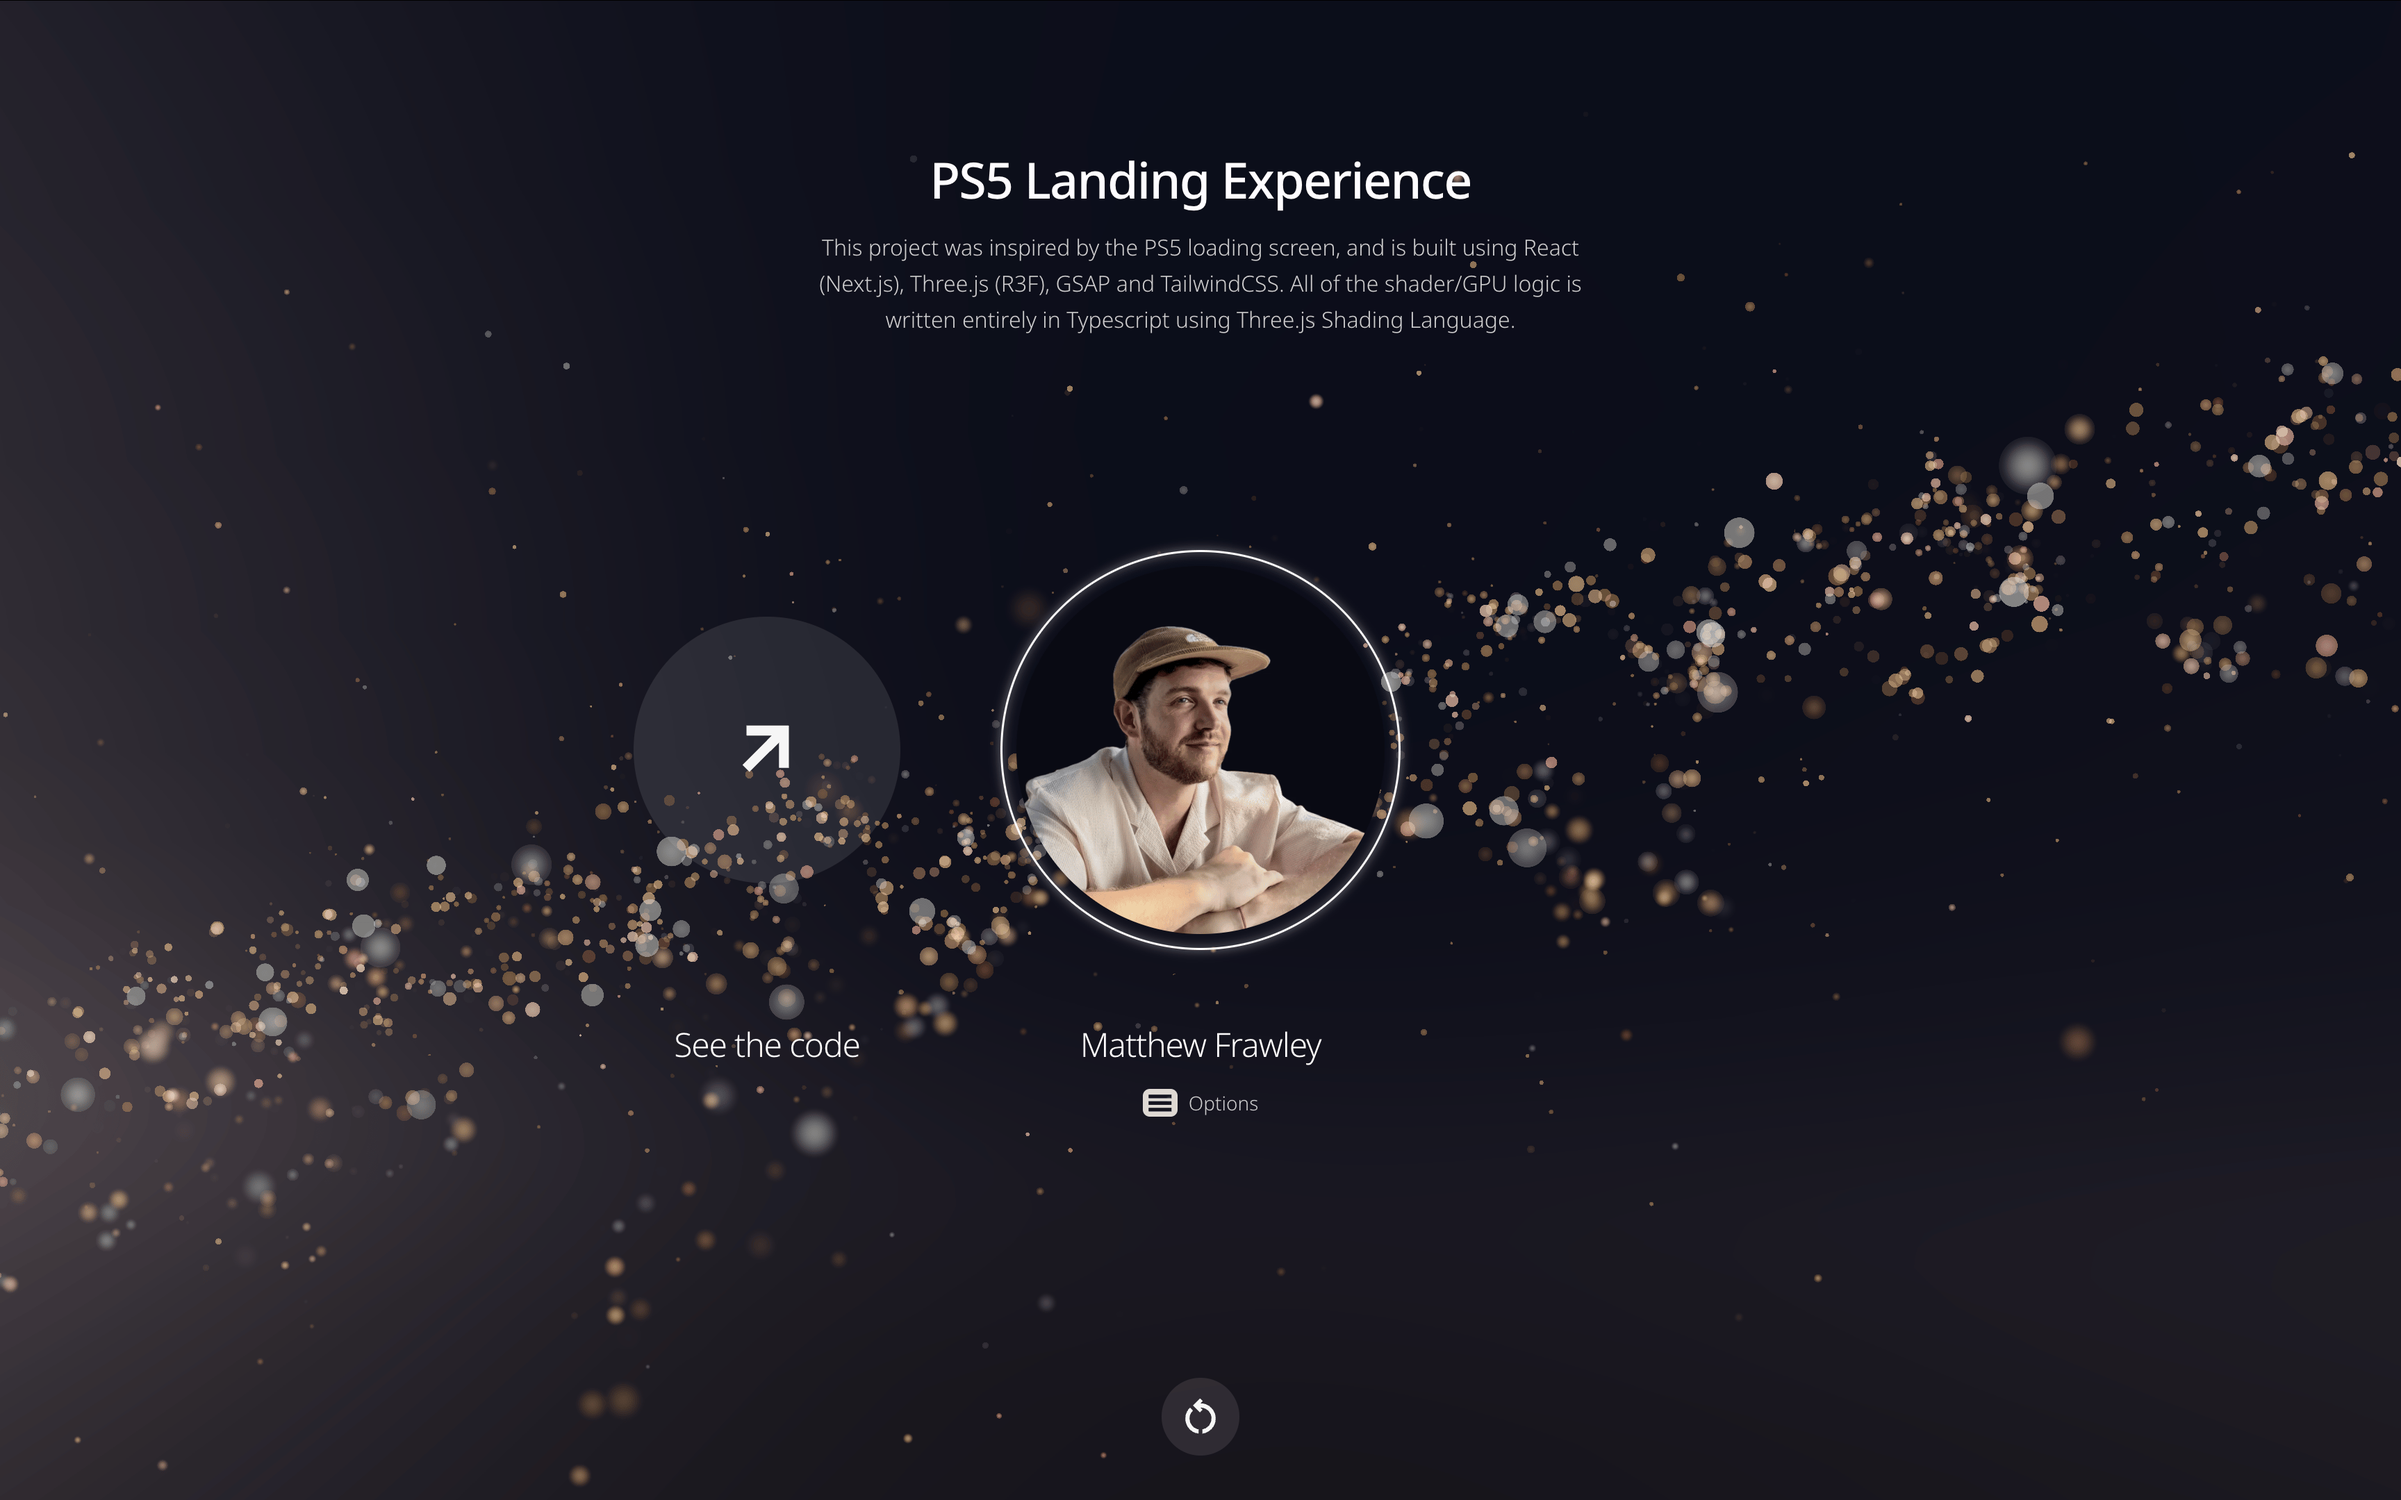
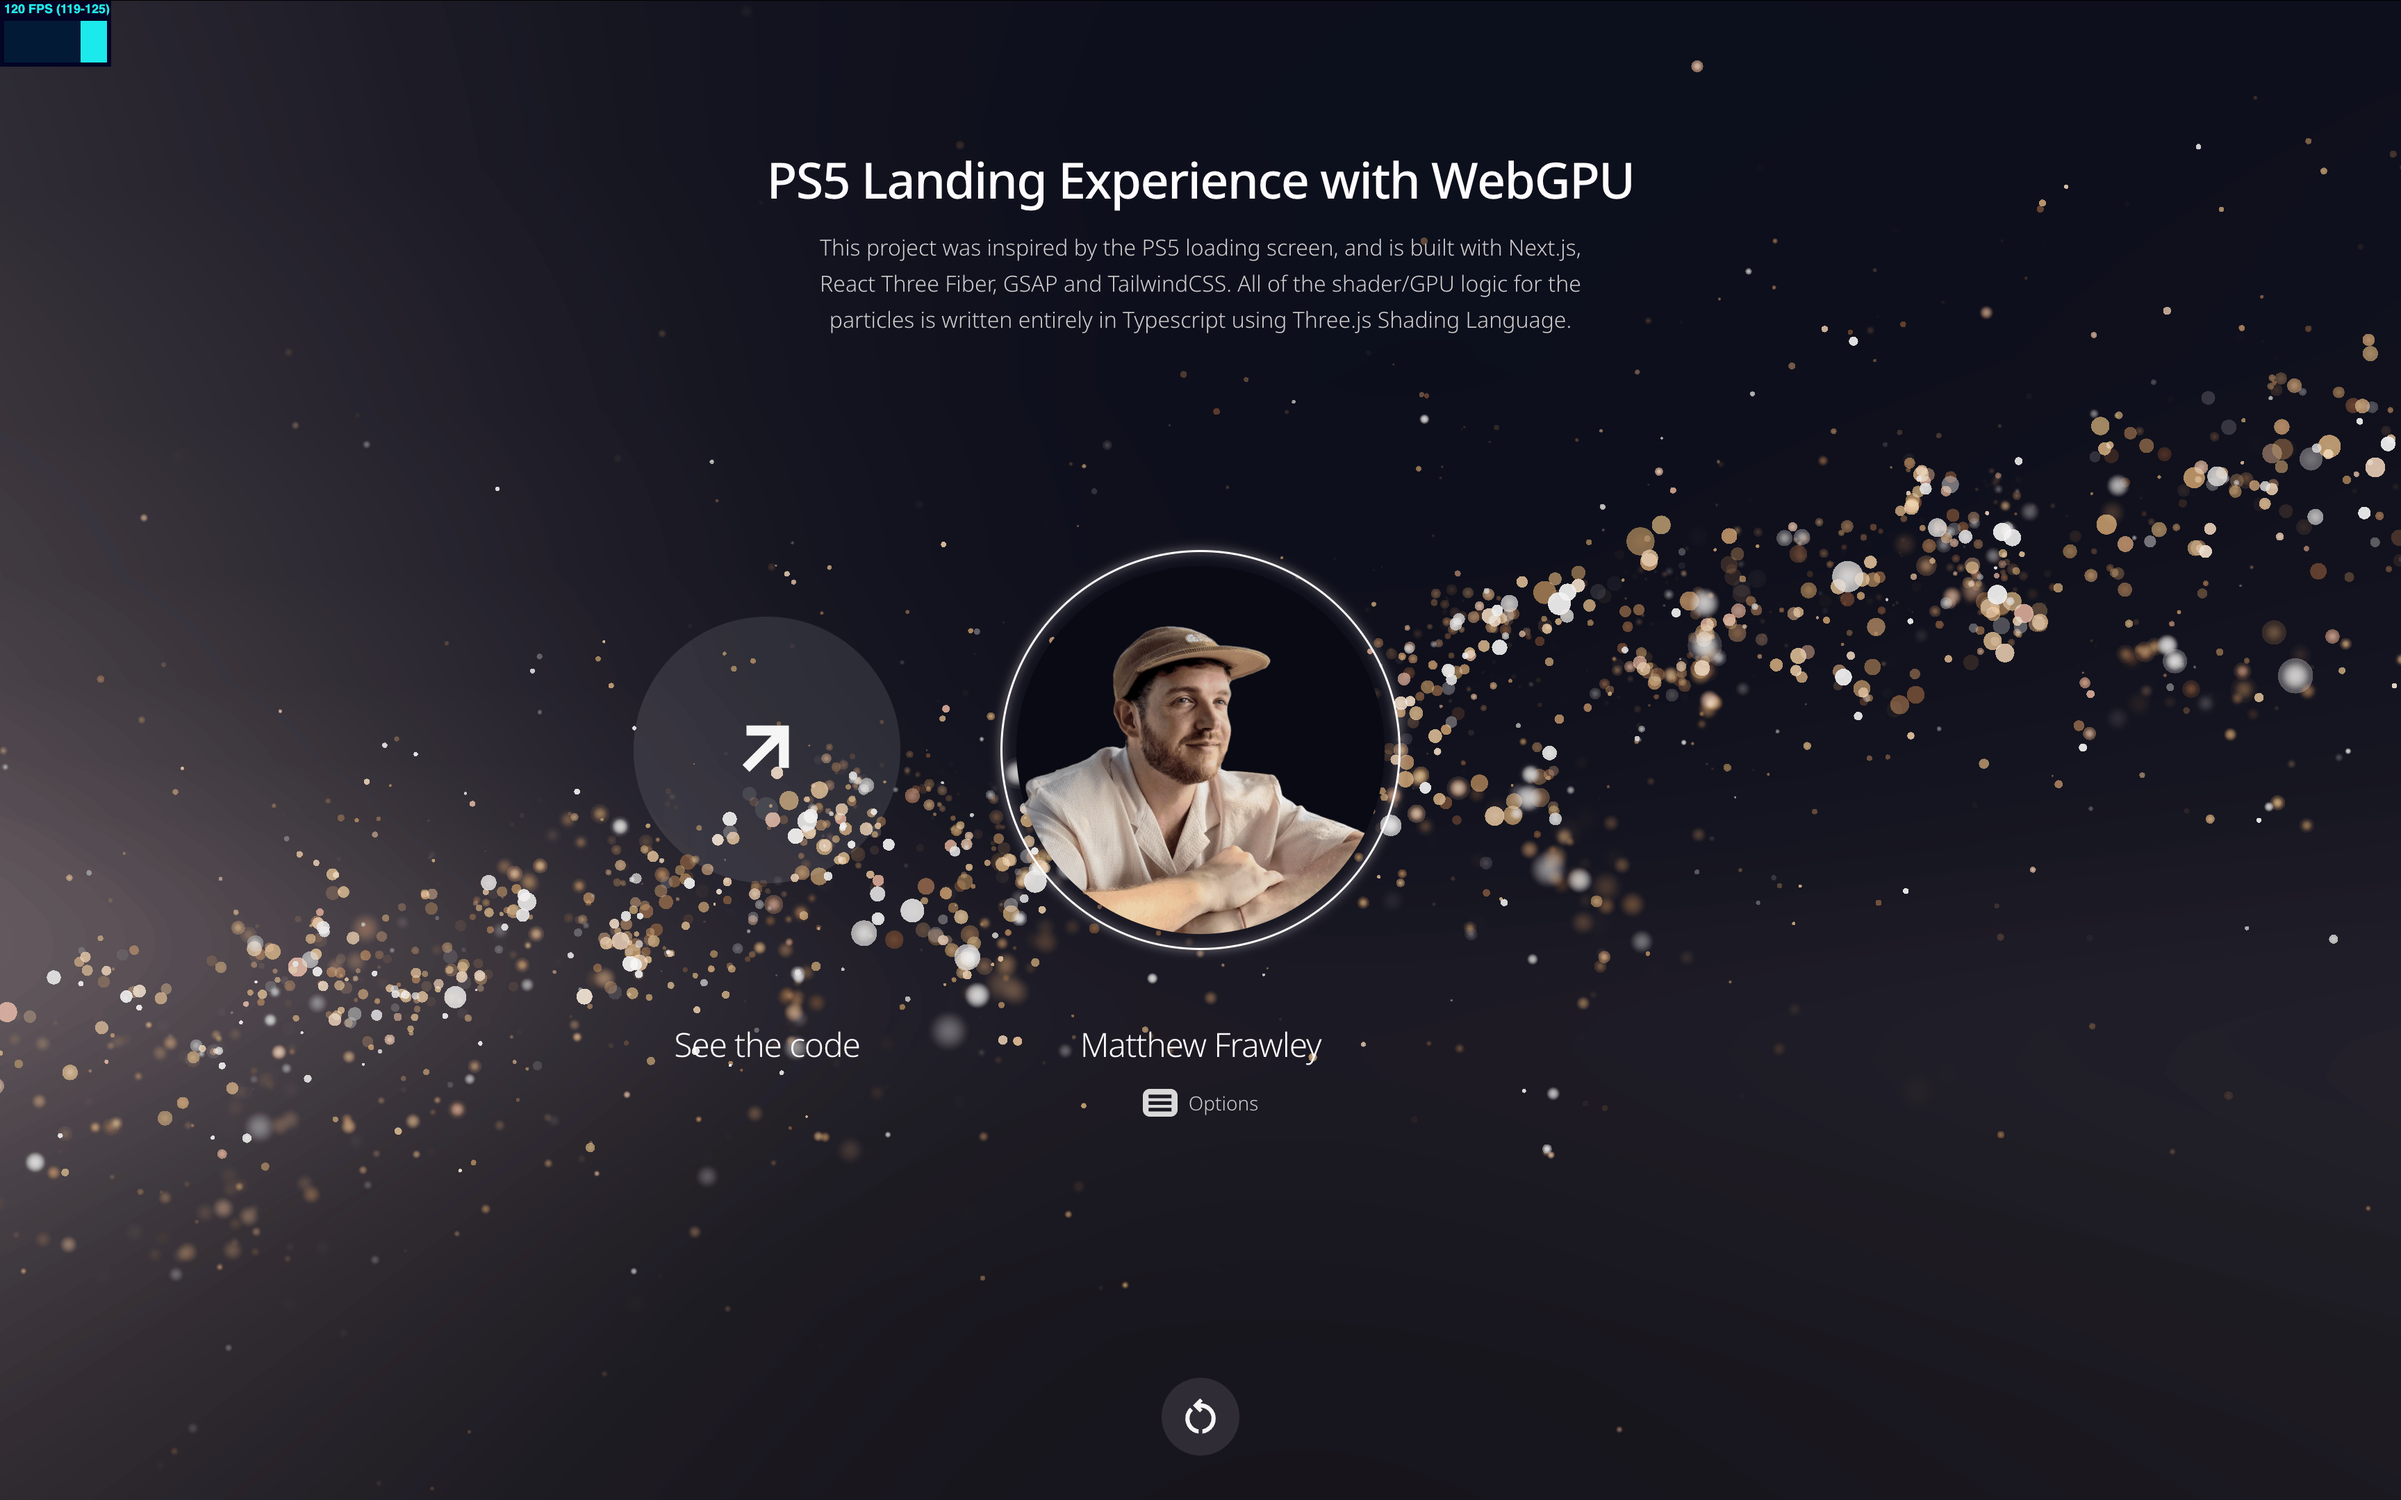
Clean and refine camera movement

diff --git a/components/Particles.tsx b/components/Particles.tsx
@@ -110,7 +110,7 @@ const PS5Particles: FC = () => {
         .add(noiseB.mul(2))
       const wavePos = vec3(x, y, z).toVar()
 
-      const shouldOffsetY = seed.lessThan(0.33)
+      const shouldOffsetY = seed.lessThan(0.35)
       const offsetPos = vec3(0.0, noiseA.sub(noiseB).mul(24), 0.0).add(wavePos)
       const finalPos = select(shouldOffsetY, offsetPos, wavePos).toVar()
 
@@ -141,7 +141,7 @@ const PS5Particles: FC = () => {
     const positionNode = currentPositionBuffer.toAttribute()
 
     const colorNode = Fn(() => {
-      const centeredUv = uv().distance(vec2(0.5)).toVar()
+      const centeredUv = uv().distance(vec2(0.5))
       const posZ = positionWorld.z
       // Mimic a "bokeh" effect by creating soft circles near and far from the camera
       const softness = select(
@@ -170,24 +170,28 @@ const PS5Particles: FC = () => {
       const flickerAlpha = flickerIn.mul(flickerOut)
 
       // Fade in as entering
-      const enterOpacity = clamp(uEnterValue, 0.3, 1.0)
+      const enterOpacity = clamp(uEnterValue, 0.4, 1.0)
 
       // Fade particles out near and far from the camera
       const posZ = positionWorld.z
-      const distance = select(
-        posZ.lessThan(-1.0),
-        smoothstep(-zRange / 2, -1.0, posZ).oneMinus(),
-        select(posZ.greaterThan(2.0), smoothstep(2.0, zRange / 2, posZ), 0.0),
-      )
-      const fadeOutDistance = distance.oneMinus()
+      const distanceOpacity = select(
+        posZ.lessThan(0.0),
+        smoothstep(-zRange / 2, 0.0, posZ).oneMinus(),
+        select(posZ.greaterThan(1.0), smoothstep(1.0, zRange / 2, posZ), 0.0),
+      ).oneMinus()
 
-      const finalOpacity = flickerAlpha.mul(enterOpacity).mul(fadeOutDistance)
+      const finalOpacity = flickerAlpha.mul(enterOpacity).mul(distanceOpacity)
+
       return finalOpacity
     })()
 
     const scaleNode = Fn(() => {
       const seed = seedBuffer.element(instanceIndex)
-      const scale = select(seed.greaterThan(0.99), vec2(3), vec2(mix(0.4, 2.0, seed)))
+      const scale = select(
+        seed.greaterThan(0.98),
+        vec2(3.2),
+        select(seed.lessThan(0.05), vec2(1.0), vec2(mix(0.3, 2.5, seed))),
+      )
       return scale
     })()
 
@@ -270,8 +274,8 @@ const PS5Particles: FC = () => {
     <instancedMesh
       args={[undefined, undefined, particleCount]}
       frustumCulled={false}
-      position={[0, -1.5, 0]}
-      rotation={[0, 0.2, Math.PI / 12]}>
+      position={[0, -1.8, 0]}
+      rotation={[0, 0.22, Math.PI / 12]}>
       <planeGeometry args={[0.1, 0.1]} />
       <spriteNodeMaterial
         key={key}
@@ -279,7 +283,7 @@ const PS5Particles: FC = () => {
         colorNode={colorNode}
         scaleNode={scaleNode}
         opacityNode={opacityNode}
-        // blending={AdditiveBlending}
+        blending={AdditiveBlending}
         depthWrite={false}
         transparent={true}
       />

diff --git a/components/Backdrop.tsx b/components/Backdrop.tsx
@@ -7,20 +7,19 @@ const PS5Backdrop: FC = () => {
   const viewport = useThree((s) => s.viewport)
 
   const { colorNode } = useMemo(() => {
-    const lightColor = color('#12141F')
-    // const lightColor = color("red");
-    const darkColor = color('#090A12')
-    const colorNode = mix(lightColor, darkColor, uv().y)
+    const topColour = color('#12141F')
+    const bottomColour = color('#090A12')
+    const colorNode = mix(topColour, bottomColour, uv().y)
     return { colorNode }
   }, [])
 
   return (
     <Backdrop
       floor={0.3} // Stretches the floor segment, 0.25 by default
-      segments={20} // Mesh-resolution, 20 by default
-      receiveShadow={true}
-      scale={[110, 40, 8]}
-      position={[0, -viewport.height / 3, -1]}>
+      segments={18} // Mesh-resolution, 20 by default
+      receiveShadow={false}
+      scale={[160, 52, 16]}
+      position={[0, -viewport.height / 3, -5]}>
       <meshStandardNodeMaterial colorNode={colorNode} />
     </Backdrop>
   )

diff --git a/components/CameraControls.tsx b/components/CameraControls.tsx
@@ -6,11 +6,11 @@ import { useFrame, useThree } from '@react-three/fiber'
 import React, { type FC, useEffect, useRef } from 'react'
 import { MathUtils } from 'three'
 
-const MIN_POLAR_ANGLE = MathUtils.degToRad(80)
-const MAX_POLAR_ANGLE = MathUtils.degToRad(100)
+const MIN_POLAR_ANGLE = MathUtils.degToRad(82)
+const MAX_POLAR_ANGLE = MathUtils.degToRad(98)
 
-const MIN_AZIMUTH_ANGLE = -Math.PI / 24
-const MAX_AZIMUTH_ANGLE = Math.PI / 24
+const MIN_AZIMUTH_ANGLE = -Math.PI / 25
+const MAX_AZIMUTH_ANGLE = Math.PI / 25
 
 const PS5CameraControls: FC = () => {
   const size = useThree((s) => s.size)

diff --git a/app/page.tsx b/app/page.tsx
@@ -1,12 +1,12 @@
 import dynamic from 'next/dynamic'
 
 import UI from '@/components/UI'
-const PS5LoadingScene = dynamic(() => import('@/components/Scene'))
+const Scene = dynamic(() => import('@/components/Scene'))
 
 export default function PS5LoadingPage() {
   return (
     <main className="h-lvh w-full overflow-hidden bg-black text-white">
-      <PS5LoadingScene />
+      <Scene />
       <UI />
     </main>
   )

diff --git a/components/Scene.tsx b/components/Scene.tsx
@@ -62,7 +62,7 @@ const PS5LoadingScene: FC = () => {
       <PS5Lighting />
       {/* <OrbitControls /> */}
       <PS5CameraControls />
-      {/* {process.env.NODE_ENV === 'development' && <Stats />} */}
+      {process.env.NODE_ENV === 'development' && <Stats />}
     </Canvas>
   )
 }
